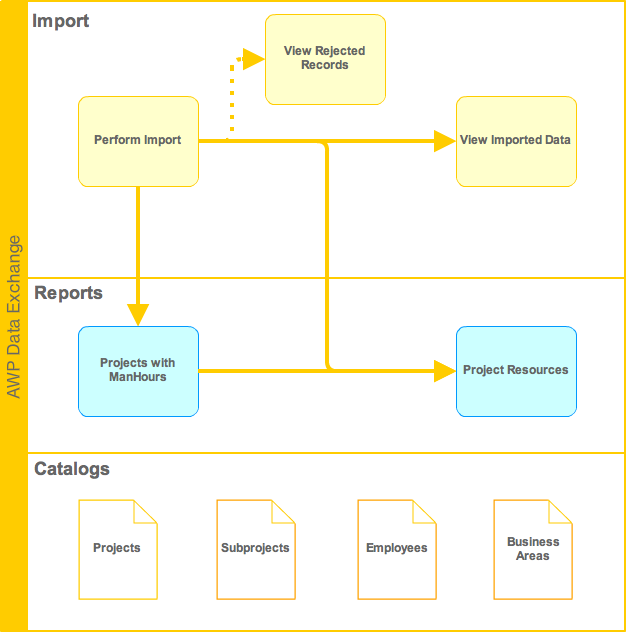
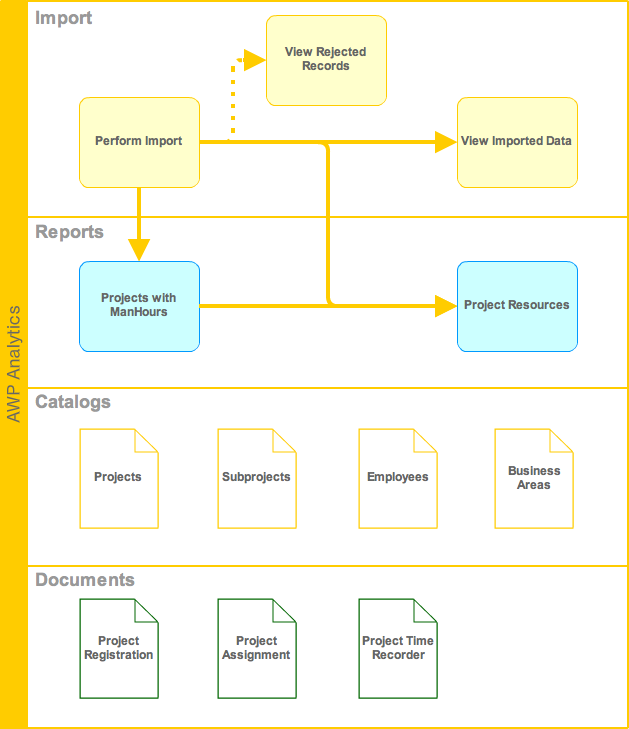
Updated desktop - added a list of documents

diff --git a/AppliedSolutions/AWPAnalytics/Resources/Desktop/Desktop.php b/AppliedSolutions/AWPAnalytics/Resources/Desktop/Desktop.php
@@ -1,14 +1,21 @@
 <div class="ae_import_desktop">
-  <img src="/ext/AE/images/AWP_Import_Process_Map.png" width="626" height="632" alt="Import Navigation" usemap="#ImportNavigation">
+  <img src="/ext/OEF/AppliedSolutions/AWPAnalytics/Resources/Desktop/AWP_Import_Process_Map.png" width="629" height="729" alt="Import Navigation" usemap="#ImportNavigation">
   <map name="ImportNavigation">
-    <area shape="rect" coords="78,96, 199,187" href="{{ page.path..'/Import' }}" alt="Perform Import">
-    <area shape="rect" coords="265,13, 386,105" href="{{ page.path..'/RejectedImportRecords' }}" alt="View Rejected Records">
-    <area shape="rect" coords="455,96, 577,187" href="{{ page.path..'/ResourcesAssignments' }}" alt="View Imported Data">
-    <area shape="rect" coords="78,325, 199,417" href="{{ page.path..'/ProjectManHours' }}" alt="Projects with ManHours">
-    <area shape="rect" coords="455,325, 577,417" href="{{ page.path..'/ProjectResources' }}" alt="Project Resources">
-    <area shape="poly" coords="78,499, 135,499, 158,522, 158,600, 78,600" href="{{ page.path..'/Projects' }}" alt="Projects">
-    <area shape="poly" coords="216,499, 273,499, 296,522, 296,600, 216,600" href="{{ page.path..'/Subprojects' }}" alt="Subprojects">
-    <area shape="poly" coords="357,499, 415,499, 437,522, 437,600, 357,600" href="{{ page.path..'/Employees' }}" alt="Employees">
-    <area shape="poly" coords="492,499, 551,499, 574,522, 574,600, 492,600" href="{{ page.path..'/BusinessArea' }}" alt="Business Areas">
+    <!-- Import -->
+    <area shape="rect" coords="79,97, 199,187" href="{{ page.path..'/Perform Import' }}" alt="Perform Import">
+    <area shape="rect" coords="266,15, 386,105" href="{{ page.path..'/RejectedImportRecords' }}" alt="View Rejected Records">
+    <area shape="rect" coords="457,97, 577,187" href="{{ page.path..'/Doc Time Recorder' }}" alt="View Imported Data">
+    <!-- Reports -->
+    <area shape="rect" coords="79,261, 199,351" href="{{ page.path..'/Report ManHours' }}" alt="Projects with ManHours">
+    <area shape="rect" coords="457,261, 577,351" href="{{ page.path..'/Report Resources' }}" alt="Project Resources">
+    <!-- Catalogs -->
+    <area shape="poly" coords="79,428, 136,428, 160,451, 159,530, 79,530" href="{{ page.path..'/Catalog Projects' }}" alt="Catalog Projects">
+    <area shape="poly" coords="217,428, 274,428, 297,451, 297,530, 217,530" href="{{ page.path..'/Catalog SubProjects' }}" alt="Catalog SubProjects">
+    <area shape="poly" coords="358,428, 416,428, 438,451, 438,530, 358,530" href="{{ page.path..'/Catalog Employees' }}" alt="Catalog Employees">
+    <area shape="poly" coords="493,428, 552,428, 575,451, 575,530, 493,530" href="{{ page.path..'/Catalog BusinessAreas' }}" alt="Catalog Business Areas">
+    <!-- Documents -->
+    <area shape="poly" coords="79,597, 136,597, 160,620, 159,700, 79,700" href="{{ page.path..'/Docs Project Registration' }}" alt="Project Registration">
+    <area shape="poly" coords="217,597, 274,597, 297,620, 297,700, 217,700" href="{{ page.path..'/Docs Project Assignment' }}" alt="Project Assignment">
+    <area shape="poly" coords="358,597, 416,597, 438,620, 438,700, 358,700" href="{{ page.path..'/Docs Time Recorder' }}" alt="Project Time Recorder">
   </map>
 </div>
